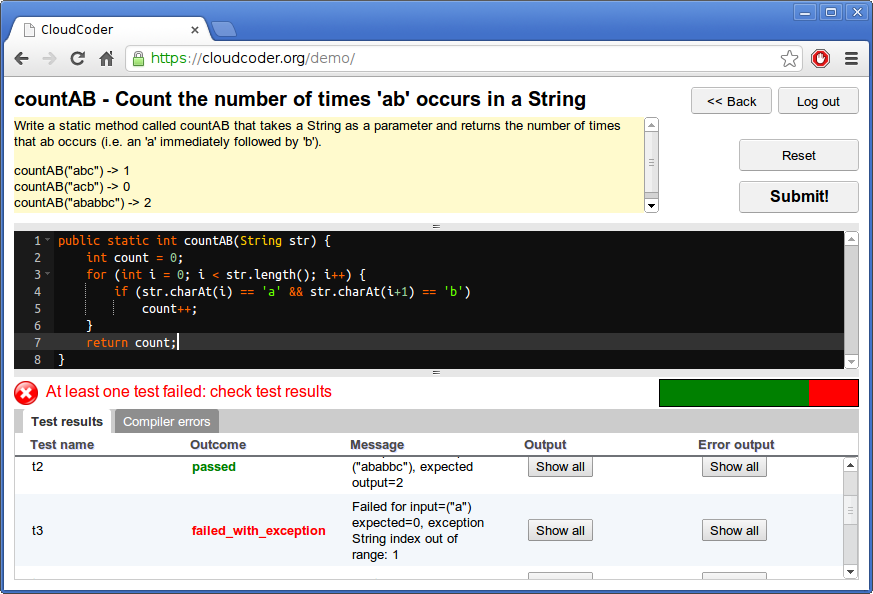
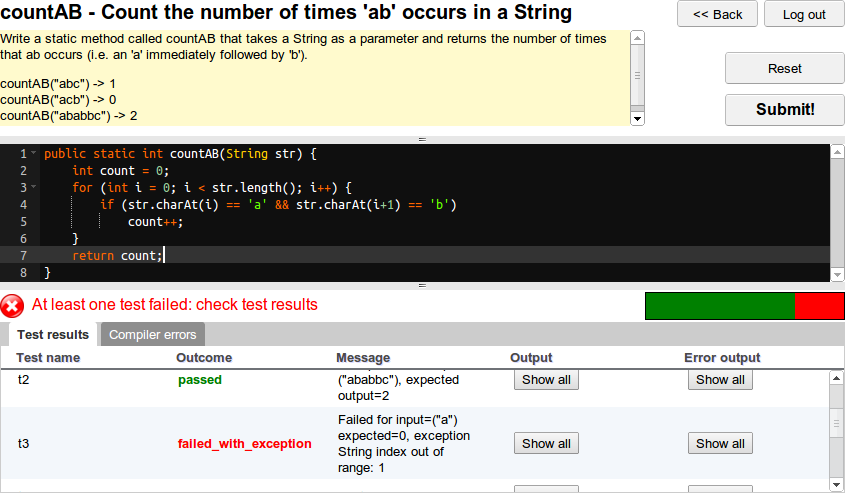
get rid of window decorations in screenshot

diff --git a/paper/paper.tex b/paper/paper.tex
@@ -260,7 +260,7 @@ using it in introductory courses at several colleges and universities.
 
 \begin{figure*}
 \centering
-\includegraphics[width=5.5in]{images/screenshot4}
+\includegraphics[width=5.25in]{images/screenshot4}
 \caption{Screenshot of the main view in CloudCoder}
 \label{screenshot}
 \end{figure*}
